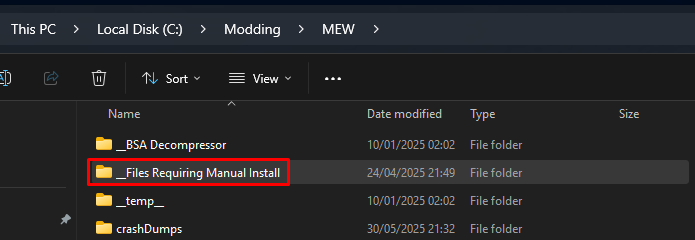
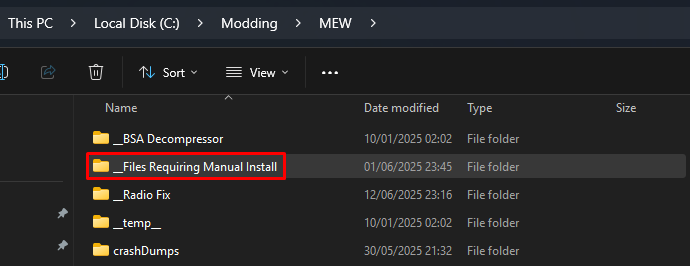
wahhh

diff --git a/sidebars.js b/sidebars.js
@@ -38,7 +38,7 @@ const sidebars = {
     'Installation',
     'Mod Organizer 2',
     'Performance',
-    'Useful Information',
+    'UsefulInformation',
     'Configuration & Tweaks',
     'Controls Guide',
 

diff --git a/docs/Introduction.md b/docs/Introduction.md
@@ -29,11 +29,10 @@ import ImageGalleryComponent from '@site/src/components/ImageGalleryComponent';
 
 ### Bug Fixes & Performance:
 - Thousands of bug fixes using the latest up to date mods. - [YUPDate](https://www.nexusmods.com/newvegas/mods/90824)
-- Massively improved collision allowing you to actually shoot through gaps. [MAC-TEN](https://www.nexusmods.com/newvegas/mods/83815)
-- Tons of mesh fixes, visual and collsion improvements aiding performance. - [MAC-TEN](https://www.nexusmods.com/newvegas/mods/83815)
+- Tons of mesh fixes including visual and collision enhancements. - [MAC-TEN](https://www.nexusmods.com/newvegas/mods/83815)
 - Various Script optimizations. - [Vanilla Script Micro-Optimizations](https://www.nexusmods.com/newvegas/mods/92147)
 - Many textures and meshes have been packed into uncompressed BSA's for maximum performance.
-- A collection of tweaks for certain audio files to fix popping issues and other annoyances
+- A collection of tweaks for certain audio files to fix popping issues and other annoyances.
 
 ---
 
@@ -52,13 +51,13 @@ import ImageGalleryComponent from '@site/src/components/ImageGalleryComponent';
 
 ### Gameplay Overhauls:
 - Tons of Quality of Life tweaks. 
-- A ton of rebalancing from [JSawyer Ultimate Edition](https://www.nexusmods.com/newvegas/mods/61592). Tweaking character progression, health, damage, loot scarcity and item values.
+- A ton of rebalancing from [JSawyer Ultimate Edition](https://www.nexusmods.com/newvegas/mods/61592). Tweaking character progression, health, damage, loot scarcity, and item values.
 - Player character's level is capped at 35 by default and is compensated with around 50% slower levelling.
 - Perks and traits have been completely overhauled. See [Perkout](https://www.nexusmods.com/newvegas/mods/80309?tab=description).
 - DLCs get delayed until you reach their appropriate level or until you visit their respective starting locations, instead of all being dumped into your quest log at the start of the game.
 - You can now sprint with custom third person animations and sounds.
 - Weapons now have recoil and selective firemodes for accuracy improvements.
-- There's a new system for quickly selecting weapons, throwables and aid items.
+- There's a new system for quickly selecting weapons, throwables, and aid items.
 - GRA weapons are merged into the vanilla merchant lists.
 - Weapon mods can be found rarely on NPC's weapons.
 - Weapon requirements actually matter now.
@@ -78,17 +77,17 @@ import ImageGalleryComponent from '@site/src/components/ImageGalleryComponent';
 - Water radiation is ramped up based upon depth.
 - Food heals less.
 - Loot is rarer and weapons & armour have lower conditions when found.
-- Barter matters significantly more for buying and selling prices.
+- The barter skill matters significantly more for buying and selling prices.
 - You can no longer sell weapons & armour under 30% condition.
 - The strip is slightly more difficult to get into and costs 4000 caps the direct way now.
-- NPCs can't be pickpocketed unless you invest into the Sneak skill
+- NPCs can't be pickpocketed unless you invest into the Sneak skill.
 
 ---
 
 ### NPC Overhauls: 
 - Thousands of small character face edits with subtle improvements.
 - They will have more emotion in dialogue.
-- NPC's accuracy changes based upon their faction and class.
+- NPCs accuracy changes based upon their faction and class.
 - Humans can now sprint the same way you can.
 - Their loot distribution has been overhauled and should be more balanced.
 - Securitrons faces will change when they enter combat mode.
@@ -105,7 +104,7 @@ import ImageGalleryComponent from '@site/src/components/ImageGalleryComponent';
 - Hundreds of handplaced, levelled, vanilla-friendly creature spawn points throughout the whole Mojave.
 - 2 new enemies, exploding mole rats and mutated raiders.
 - Ghoul variants have been expanded.
-- Previously vendor exclusive GRA weapons have been hand placed in various locations across the Mojave. You can find there locations [here](/docs/Useful Information).
+- Previously vendor exclusive GRA weapons have been hand placed in various locations across the Mojave. You can find their locations [here](/docs/UsefulInformation).
 
 ---
 
@@ -128,7 +127,7 @@ import ImageGalleryComponent from '@site/src/components/ImageGalleryComponent';
 - Semi-transparent scopes.
 - All energy weapons have built-in iron sights.
 - Redesigned blood, particle effects, and gore textures that fit within the New Vegas art style. 
-- Professional quality Ballistic VFX overhaul. Bullet Holes match ammo, casings match ammo, new custom particle effects impacts.
+- Bullet holes & casings match ammo and new impact effect.
 - Bullet tracers and bullet trails.
 - Weapon intertia and ADS blur effects.
 - Radiation and drowning visuals.
@@ -143,7 +142,7 @@ import ImageGalleryComponent from '@site/src/components/ImageGalleryComponent';
 - Your player character can now move diagonally in third person.
 - Various chems now have animations when consumed.
 - New first person pickup and interaction animations.
-- The pip-boy light is now animated.
+- The Pip-Boy light is now animated.
 - Subtle camera shake and improved weapon locomotions has been added.
 
 ---

diff --git a/docs/Installation.md b/docs/Installation.md
@@ -15,7 +15,7 @@ sidebar_position: 4
 3. Place the downloaded **Wabbajack.exe** in this folder, then run it.
 <p>![WabbajackInstallFolder](../static/img/WabbajackInstallFolder.png)</p>
 4. Click the **Settings** button in the bottom left and then **Log In** to Nexus Mods. 
-5.  Once logged in, on the left side click **Browse lists**, then search **MEW** at the top 
+5. Once logged in, on the left side click **Browse lists**, select **Non-featured** then search **MEW** at the top 
 6. Select **MEW** and click the **Download & Install** ⭳ button in the bottom left corner. 
 7. Once downloaded, under the **Installation Location** select an **empty folder**. 
     - Example: `C:\Modding\MEW`
@@ -54,8 +54,7 @@ This operation is required because Windows can block MO2 and mod files from load
 
 ### Root Mods:
 
-
-1. In your **Installation Location**, open the Files Requiring Manual Install folder.
+1. In your **Installation Location**, open the <span class="custom-text">**__Files Requiring Manual Install**</span> folder.
 <p>![FilesRequiringManualInstall](../static/img/FilesRequiringManualInstall.png)</p>
 2. Copy **everything** to the game's **Root folder**.
 <p>![RootModsInstall](../static/img/RootModsInstall.png)</p>
@@ -64,13 +63,20 @@ This operation is required because Windows can block MO2 and mod files from load
     `FalloutNV.exe patched!`
 5. Close the command prompt and a file named **FalloutNV_backup.exe** should appear in the same folder.
 
+### Radio Fix:
+
+1. In your **Installation Location**, open the <span class="custom-text">**__Radio Fix**</span> folder.
+<p>![RadioFixInstallation](../static/img/RadioFixInstallation.png)</p>
+2. Double-click on **Run This.bat**.
+3. A command prompt window will open and start encoding files.
+4. Once its finished it will say `Radio Fix has been successfully installed!`
 
 ### BSA Decompressor:
 Decompresses the vanilla BSA files to reduce loading times and stuttering. Can also fix certain sound effects not playing.
 
-1. In your **Installation Location**, open the **BSA Decompressor** folder.
-2. Run **FNV BSA Decompressor.exe**.
+1. In your **Installation Location**, open the <span class="custom-text">**__BSA Decompressor**</span> folder. 
+2. Double-click on **FNV BSA Decompressor.exe**.
+<p>![BSADecompressorInstallation](../static/img/BSADecompressorInstallation.png)</p>
 3. The Fallout: New Vegas and Decompressed Archives paths should be filled by default (Root folder and Data folder respectively).
-<p>![FilesRequiringManualInstall](../static/img/FilesRequiringManualInstall.png)</p>
-4. If they aren't, close the program and re-run your game launcher to generate the required registry key,
+        - If they aren't, close the program and re-run your game launcher to generate the required registry key.
 5. Click **Decompress**, wait for the process the finish, then exit the program once finished.

diff --git a/docs/Performance.md b/docs/Performance.md
@@ -8,15 +8,15 @@ sidebar_position: 5
 
 It is highly recommended to read the [performance guide](https://performance.moddinglinked.com/falloutnv.html) as this is an in-depth guide on how to fix the game's lackluster performance, display issues and alt-tabbing. Covers topics such as DXVK, framerate limiting, display modes, lag and HDR. 
 
-## FPS Limiting:
+### FPS Limiting:
 
 It is extremely important that your fps is capped to **120 or less**. At framerates higher than this you can expect some weirdness but more importantly this can cause **crashes!**
 
-## DXVK
+### DXVK
 
-In general, on most modern CPU's you can expect performance improvements by using [DXVK](https://www.nexusmods.com/newvegas/mods/79299). You will need to read the [**DXVK section**](https://performance.moddinglinked.com/falloutnv.html#DXVK) of the performance guide as the install and configuration depends entirely on your hardware.
+In general, on most modern CPUs you can expect performance improvements by using [DXVK](https://www.nexusmods.com/newvegas/mods/79299). You will need to read the [**DXVK section**](https://performance.moddinglinked.com/falloutnv.html#DXVK) of the performance guide as the install and configuration depends entirely on your hardware.
 
 
-## Disabling performance intensive mods
+### Disabling performance intensive mods
 
-Some of the mods in the wabbajack can be potentially performance intensive. They will be marked with **Potentially Performance Intensive! Can be safely disabled.** in the Notes section and can be safely disabled.
+Some of the mods in the Wabbajack can be potentially performance intensive. They will be marked with **Potentially Performance Intensive! Can be safely disabled.** in the Notes section and can be safely disabled.

diff --git a/docs/Requirements.md b/docs/Requirements.md
@@ -26,7 +26,7 @@ The game is much more CPU-intensive than GPU-intensive, and actually scales with
     - The Polish-Czech-Russian (PCR) version of Fallout: New Vegas is fully supported as long as the game itself is in English.
     - The German release uses a "No Gore" version, making it also incompatible with xNVSE.
 - At least 40GB of free drive space, game included (32GB if you delete all the downloads).
-- Windows 10 or higher (64-bit). **Linux is not supported!**
+- Windows 10 or higher (64-bit). **Linux will not be supported! But it is possible if you have the know-how**
 
 :::danger Important 
 
